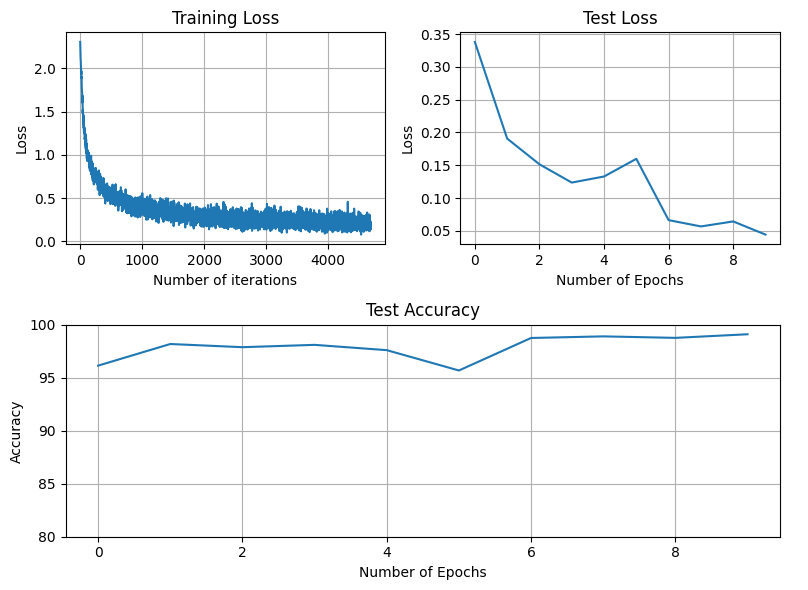
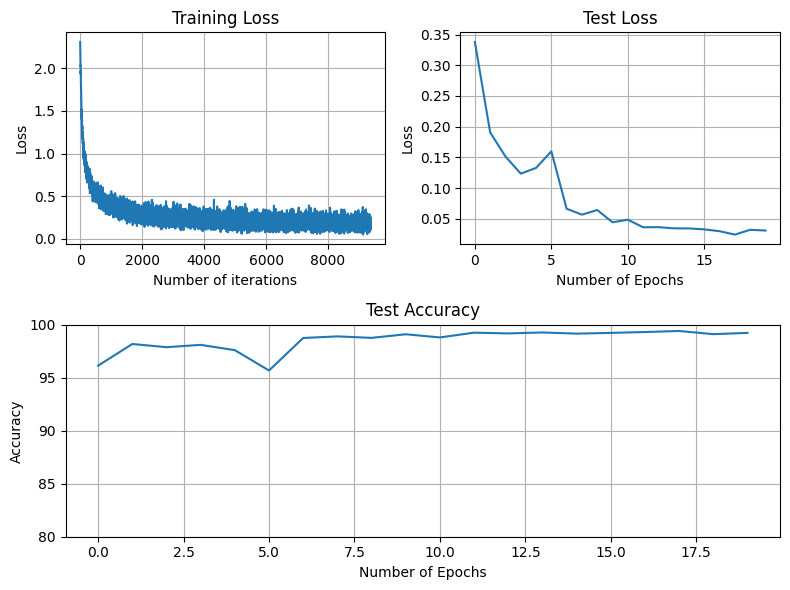
Updated ReadMe and Graph

diff --git a/S5_MNIST_18k/ReadMe.md b/S5_MNIST_18k/ReadMe.md
@@ -7,8 +7,8 @@ This repository contains a Jupyter Notebook (`MNIST_Opimized_Model.ipynb`) that 
 The primary goal of this project was to develop an MNIST classifier that adheres to the following constraints:
 
 *   **Number of Parameters**: 18.5k
-*   **Number of Epochs**: 10
-*   **Efficiency/Accuracy**: 99.11%
+*   **Number of Epochs**: 20
+*   **Efficiency/Accuracy**: 99.42%
 
 ## Model Architecture
 
@@ -20,7 +20,7 @@ Total params: 18,406
 Trainable params: 18,406
 Non-trainable params: 0
 
-The model achieved an accuracy of **99.11%**. While this is very close to the target of 99.4%, it indicates that further training (up to the specified 20 epochs) or minor hyperparameter tuning might be needed to fully meet the efficiency constraint.
+The model achieved an accuracy of **99.42%**. 
 
 Logs:
 ```
